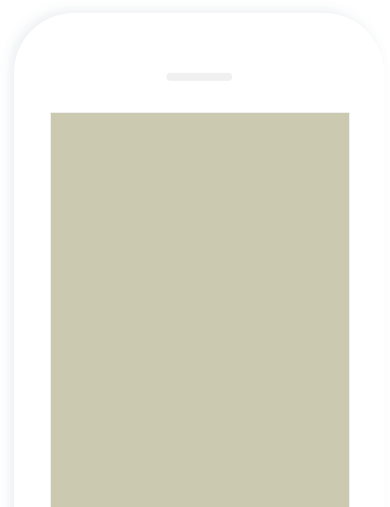
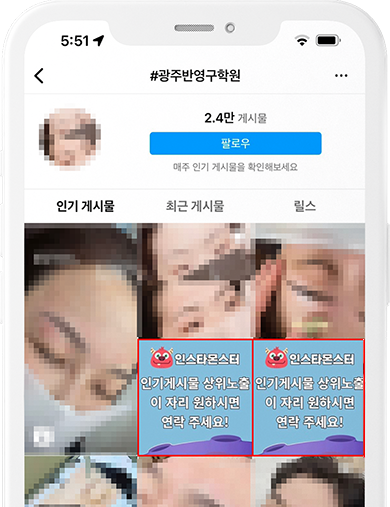
Add files via upload

diff --git a/index.html b/index.html
@@ -55,7 +55,7 @@
                 <li><a href="#3">실제후기</a></li>
                 <li><a href="#4">서비스가격</a></li>
                 <li><a href="#5">서비스소개</a></li>
-                <a href="https://pf.kakao.com/_xmGwjxb/chat" target="blank">
+                <a href="https://pf.kakao.com/_xmGwjxb" target="blank">
                     <button class="kakaotalk">
                         <img src="images/kakao.png" class="kakao">
                         <img src="images/kakao-m.png" class="kakao-m">
@@ -551,7 +551,7 @@
                             <ul class="hide">
                                 <p>
                                     네. 물론입니다. 저희 서비스를 이용하시기 전, 먼저 고객님의 계정 상태를 확인해야 하고 부족한 부분이
-                                    무엇인지, 어떤 부분을 더 보충해야 하는지 피드백을 드린 후 진행해드립니다. <a href="https://pf.kakao.com/_xmGwjxb/chat" target="blank">(카카오톡 상담하기)</a>
+                                    무엇인지, 어떤 부분을 더 보충해야 하는지 피드백을 드린 후 진행해드립니다. <a href="https://pf.kakao.com/_xmGwjxb" target="blank">(카카오톡 상담하기)</a>
                                 </p>
                             </ul>
                         </li>
@@ -607,7 +607,7 @@
                             <ul class="hide">
                                 <p>
                                     인스타몬스터는 단, 1건의 사건사고가 없었으며 PC 기반 프로그램이 아닌 휴대폰 기반 순수 대한민국 고정 IP 및 실제 한국인 리워드 애플리케이션을 사용하고 있어 더욱더 안전합니다.
-                                    실행사로써 전문 개발자분들과 함께 진행하여 비교적 다른 업체들 보다 저렴한 가격에 제공해 드립니다. <a href="https://pf.kakao.com/_xmGwjxb/chat" target="blank">(카카오톡 상담하기)</a>
+                                    실행사로써 전문 개발자분들과 함께 진행하여 비교적 다른 업체들 보다 저렴한 가격에 제공해 드립니다. <a href="https://pf.kakao.com/_xmGwjxb" target="blank">(카카오톡 상담하기)</a>
                                 </p>
                             </ul>
                         </li>
@@ -659,7 +659,7 @@
                         <div class="owl-stage-outer">
                             <div class="owl-stage">
                                 <div class="owl-item">
-                                    <img src="images/phone.png">
+                                    <img src="images/phone1.png">
                                 </div>
                                 <div class="owl-item">
                                     <img src="images/phone2.png">
@@ -840,7 +840,7 @@
                 <div class="a9-wrapper">
                     <div class="a9-text">
                         <img src="images/ci.png">
-                        <a href="https://pf.kakao.com/_xmGwjxb/chat" target="blank" class="a9Btn-m">
+                        <a href="https://pf.kakao.com/_xmGwjxb" target="blank" class="a9Btn-m">
                             <button class="a9Btn">
                                 <h1>카카오톡 문의하기</h1>
                             </button>
@@ -850,7 +850,7 @@
                             궁금한 점에 대해 친절하게 상담해드리겠습니다.
                         </h5>
                     </div>
-                    <a href="https://pf.kakao.com/_xmGwjxb/chat" target="blank" class="a9Btn-pc">
+                    <a href="https://pf.kakao.com/_xmGwjxb" target="blank" class="a9Btn-pc">
                         <button class="a9Btn">
                             <h1>카카오톡 문의하기</h1>
                         </button>
@@ -986,7 +986,7 @@
             autoplayTimeout: 3000,
             autoplayHoverPause: true,
             animateIn: 'fadeIn',
-            animateOut: 'fadeOut',
+            // animateOut: 'fadeOut',
             touchDrag: false,
             mouseDrag: false
         });

diff --git a/css/article5.css b/css/article5.css
@@ -63,7 +63,7 @@
 .carousel {
     width: 390px;
     position: absolute;
-    bottom: -100px; right: 0;
+    bottom: -101px; right: 0;
 }
 
 .owl-item {
